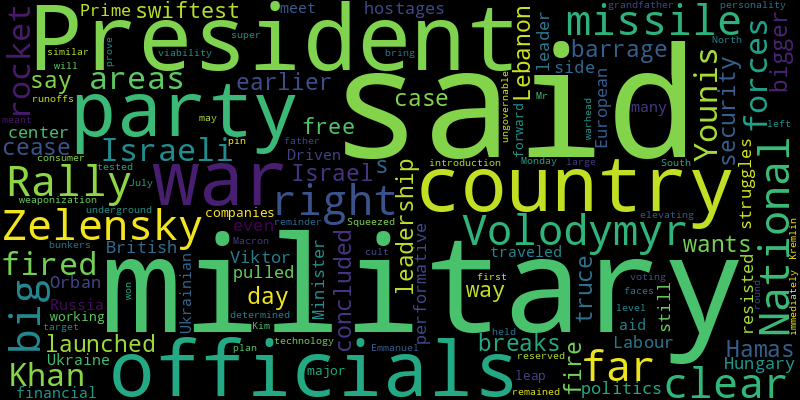
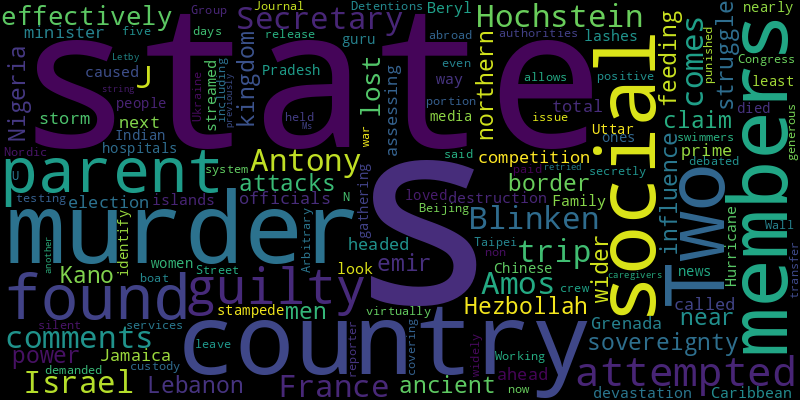
chore(bot): 😱 auto commit

diff --git a/README.md b/README.md
@@ -2,41 +2,41 @@
 Auto RSS New York Times and Generate Word Cloud
 
 ## New York Times Global News
-* Israeli forces fired at areas of Khan Younis from which a rocket barrage had been launched a day earlier, the military said.
-* Israel’s military leadership wants a cease-fire with Hamas in case a bigger war breaks out in Lebanon, security officials say. It has also concluded that a truce would be the swiftest way to free hostages.
-* The Labour leader still struggles with the “performative side” of British politics, even as he has pulled his party to the center.
-* Prime Minister Viktor Orban of Hungary, who has resisted European military and financial aid for Ukraine, traveled to the country to meet with President Volodymyr Zelensky.
-* Driven by the war with Russia, many Ukrainian companies are working on a major leap forward in the weaponization of consumer technology.
-* The North said it tested a missile with a “super-large warhead” on Monday. The South has similar missiles, meant to target underground bunkers.
-* With the introduction of the pin, Mr. Kim is said to be elevating his personality cult to the level once reserved for his father and grandfather.
-* Squeezed by the far-right National Rally party and the left, President Emmanuel Macron faces a country that may prove ungovernable.
-* The far-right National Rally won big in the first round of voting. Just how big will not be clear until after runoffs are held on July 7.
-* While the viability of the plan was not immediately clear, officials said it was a reminder that the Kremlin remained determined to bring down President Volodymyr Zelensky.
+* Amos Hochstein’s trip to France comes after comments by Secretary of State Antony J. Blinken that Israel had “effectively lost sovereignty” near the border with Lebanon because of attacks by Hezbollah.
+* Two men claim to be the emir of Kano, an ancient kingdom in northern Nigeria. Their struggle for power and influence is feeding into a wider competition ahead of the country’s next election.
+* As the storm headed for Jamaica, officials were assessing what Grenada’s prime minister called “total” devastation on two of the country’s islands.
+* A look at the destruction caused by Hurricane Beryl as it lashes its way through the Caribbean.
+* Family members streamed to hospitals in the Indian state of Uttar Pradesh to identify loved ones after at least 121 people — nearly all women — died in a stampede at a guru’s gathering.
+* Chinese state news and social media has been virtually silent about 23 swimmers secretly testing positive in 2021, even as the issue is being debated widely abroad, including in Congress.
+* The authorities in Taipei have demanded that Beijing release the boat and its five crew members, who are being held in custody.
+* The U.N. Working Group on Arbitrary Detentions said the Wall Street Journal reporter was being punished for covering the war in Ukraine.
+* The Nordic country’s generous social services system now allows parents to transfer a portion of paid leave days to other non-parent caregivers.
+* Ms. Letby, who had previously been found guilty in a string of murders and attempted murders, was retried and found guilty of another attempted murder.
 
 ![Global](./global.png)
 ## New York Times United States News
-* The jurors said they were “deeply divided” over whether Ms. Read killed her boyfriend, a Boston police officer; prosecutors said they would try the case again.
-* Organizers have until Friday to collect enough signatures to put abortion access on the ballot this fall in a state where conservative and evangelical values run deep.
+* Supporters say Leonard Peltier, 79, was unfairly blamed for the deaths of two F.B.I. agents in a shootout with activists.
+* The lawsuit was filed a year after the Supreme Court struck down the use of racial and gender preferences in college admissions.
 * Federal pandemic aid helped keep school districts afloat, but that money is coming to an end.
-* Doctors at the University of California, San Francisco, say that the workplace they once loved has been fractured by the Israel-Hamas war.
-* The campaign, in a release weeks before the federal filing deadline, said it had raised $127 million in June together with the Democratic Party.
-* Confronting steep debts and some layoffs, Robert F. Kennedy Jr.’s campaign is increasingly consumed by the battle for ballot access, with his allies quietly putting money into a new legal fund.
-* The state’s prison system has faced recent scrutiny for failing to care for inmates.
-* Senator Sheldon Whitehouse of Rhode Island said he was “horrified" by the debate. Representative Debbie Dingell said “the campaign needs to listen to us.”
-* Beyond Donald J. Trump, the decision adds to the seemingly one-way ratchet of executive authority.
-* A post that Mr. Trump circulated on Sunday called for Liz Cheney to be prosecuted by a military court reserved for enemy combatants and war criminals.
+* Only four homicides have occurred in the city this year. Although luck has played a role, the city is bringing a high level of precision to its strategy to prevent violence.
+* Some of the president’s past supporters want a new candidate, but they are leery of going public.
+* Leading Democrats have lent legitimacy to questions about the president’s mental acuity, and made clear that the matter of his stepping aside is far from settled.
+* The Supreme Court’s conservative majority largely embraced Donald Trump’s dark view of tit-for-tat partisan prosecutions while liberals cited the prospect of power unchecked by legal accountability.
+* For Donald F. McGahn II, the former White House counsel, and Senator Mitch McConnell, the Kentucky Republican, sweeping anti-regulatory rulings are the big payoff of their drive to reshape the federal courts.
+* The Department of Homeland Security said it was working with Chinese authorities to arrange more flights as more migrants enter the United States.
+* Jack Smith plans to continue two criminal cases against Donald J. Trump until Inauguration Day if the former president wins, according to a person familiar with his thinking.
 
 ![US](./usnews.png)
 ## New York Times Asia News
+* Legal experts say the U.S. Supreme Court ruling pushes past most of the norms in effect among American allies, adding more concern about the reliability of U.S. power.
+* China’s leader, Xi Jinping, and President Vladimir V. Putin of Russia are courting regional leaders and pushing an alternative to the U.S.-led order.
+* Family members streamed to hospitals in the Indian state of Uttar Pradesh to identify loved ones after at least 121 people — nearly all women — died in a stampede at a guru’s gathering.
+* The authorities in Taipei have demanded that Beijing release the boat and its five crew members, who are being held in custody.
+* Chinese state news and social media has been virtually silent about 23 swimmers secretly testing positive in 2021, even as the issue is being debated widely abroad, including in Congress.
+* As multinational brands shift factory production from China, Indian women — long shut out of the work force — could be prime beneficiaries.
+* Plus, Israel’s generals want a truce.
+* The crush happened in hot and crowded conditions in Uttar Pradesh State, in northern India, and a medical official said the death toll could rise.
 * With the introduction of the pin, Mr. Kim is said to be elevating his personality cult to the level once reserved for his father and grandfather.
 * The North said it tested a missile with a “super-large warhead” on Monday. The South has similar missiles, meant to target underground bunkers.
-* Plus, what’s next for France.
-* The deadly crash occurred near a busy intersection in front of city hall in central Seoul.
-* The commercial company Space Pioneer said the accident occurred because of a structural failure in the connection between the rocket and its testing platform.
-* Myanmar’s junta, facing a growing popular rebellion, has plunged the country into economic crisis, reversing gains from a decade of civilian leadership.
-* China’s leaders vowed to kick-start spending by offering subsidies for households to buy cars and appliances. But many consumers aren’t biting.
-* Also, Iran’s election heads to a runoff and Japanese researchers help robots smile.
-* Producers of “The Boyfriend” on Netflix hope it will encourage broader acceptance of the L.G.B.T.Q. community in Japan, which still has not legalized same-sex unions.
-* In India, cricket has become immensely profitable and a destination for the world’s best players. But a tournament victory had eluded it for many years.
 
 ![Asian](./asian.png)
